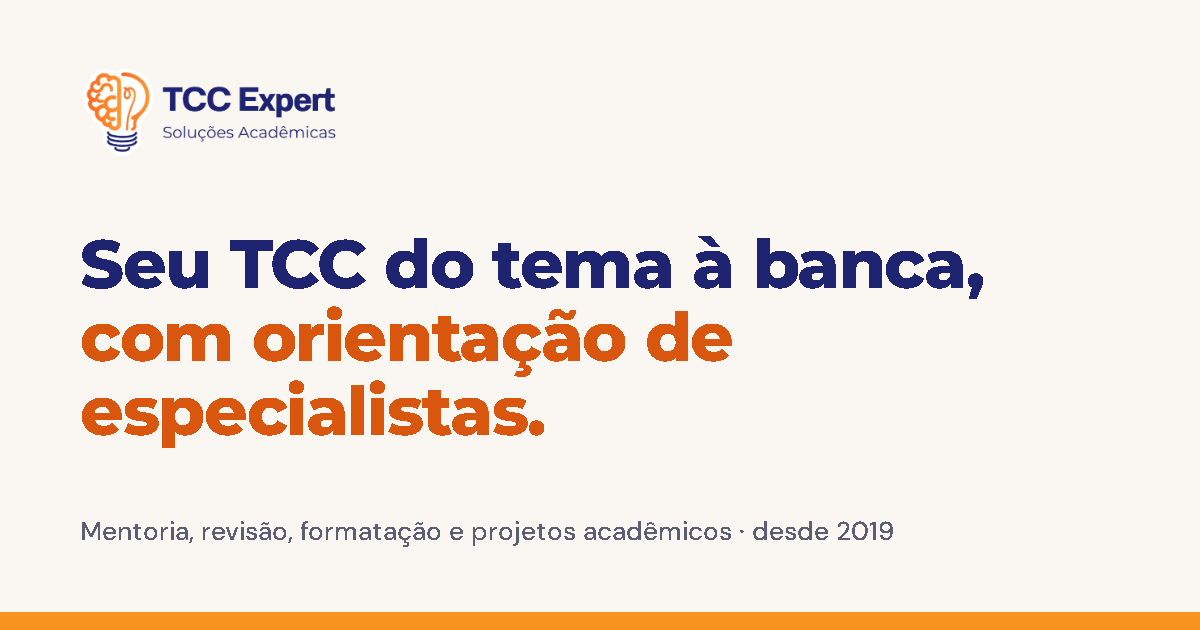
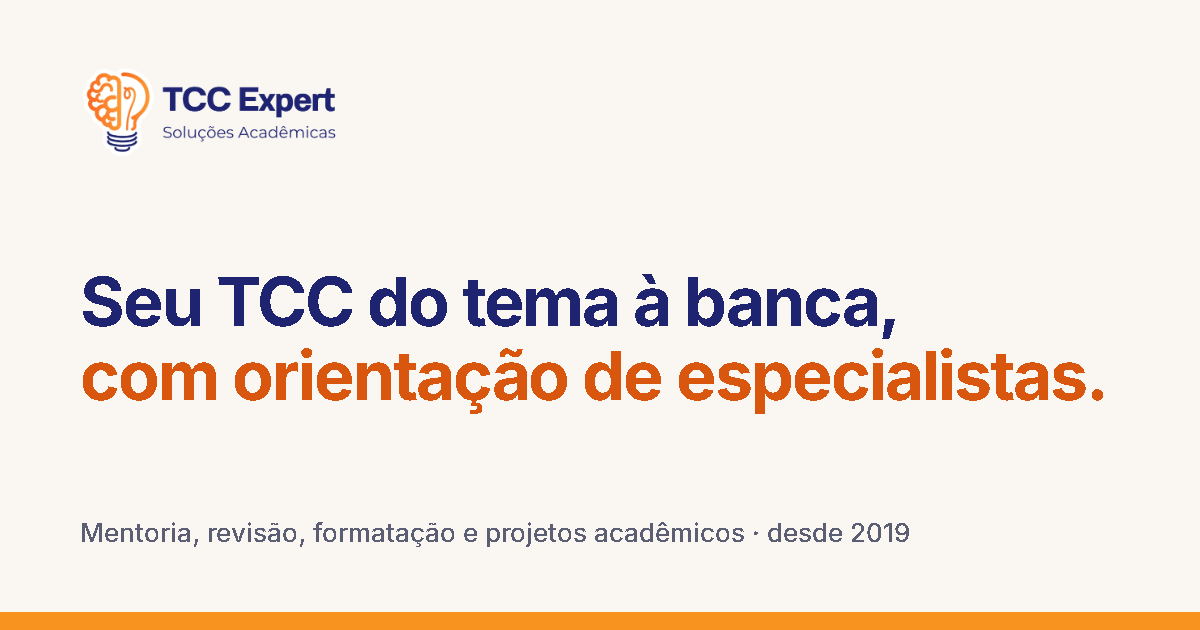
Tipografia mais sóbria: Inter em títulos e texto, cantos mais discretos

Changed region(s): [[0.0617, 0.3619, 0.925, 0.7238], [0.0617, 0.8143, 0.7708, 0.8746]]

diff --git a/src/app/servicos/page.tsx b/src/app/servicos/page.tsx
@@ -33,7 +33,7 @@ export default function ServicesPage() {
           <div className="mt-6 grid gap-6 lg:grid-cols-12 lg:items-end">
             <div className="lg:col-span-7">
               <p className="kicker">Nossos serviços</p>
-              <h1 id="servicos-page-title" className="mt-4 text-display font-extrabold">
+              <h1 id="servicos-page-title" className="mt-4 text-display font-bold">
                 Orientação para cada etapa do seu <span className="text-orange-deep">trabalho acadêmico</span>
               </h1>
             </div>
@@ -54,7 +54,7 @@ export default function ServicesPage() {
               const image = serviceImages[s.icon];
               return (
                 <li key={s.id} id={s.id} data-reveal style={{ ["--reveal-i" as string]: i % 2 }} className="scroll-mt-28">
-                  <article className="group flex h-full flex-col overflow-hidden rounded-3xl bg-white shadow-[0_1px_0_rgba(18,21,66,0.05)] transition-all duration-300 hover:-translate-y-2 hover:shadow-[0_30px_60px_-34px_rgba(18,21,66,0.5)]">
+                  <article className="group flex h-full flex-col overflow-hidden rounded-2xl bg-white shadow-[0_1px_0_rgba(18,21,66,0.05)] transition-all duration-300 hover:-translate-y-2 hover:shadow-[0_30px_60px_-34px_rgba(18,21,66,0.5)]">
                     <div className="relative overflow-hidden">
                       <Image
                         src={image.src}
@@ -63,7 +63,7 @@ export default function ServicesPage() {
                         sizes="(min-width: 768px) 45vw, 100vw"
                         className="aspect-[16/9] w-full object-cover transition-transform duration-700 ease-out group-hover:scale-105"
                       />
-                      <span className="absolute top-4 left-4 inline-flex size-12 items-center justify-center rounded-2xl bg-orange text-brand-deep shadow-md transition-transform duration-300 group-hover:rotate-[-6deg]">
+                      <span className="absolute top-4 left-4 inline-flex size-12 items-center justify-center rounded-xl bg-orange text-brand-deep shadow-md transition-transform duration-300 group-hover:rotate-[-6deg]">
                         <ServiceIcon name={s.icon} className="size-6" />
                       </span>
                     </div>
@@ -81,7 +81,7 @@ export default function ServicesPage() {
                           </li>
                         ))}
                       </ul>
-                      <p className="mt-6 rounded-xl bg-cream px-4 py-3 text-[0.9375rem] text-muted">{s.forWho}</p>
+                      <p className="mt-6 rounded-lg bg-cream px-4 py-3 text-[0.9375rem] text-muted">{s.forWho}</p>
                       <div className="mt-auto pt-7">
                         <WhatsAppLink source="services_page" topic={s.topic} className="btn btn-wa w-full sm:w-auto">
                           <WhatsAppIcon />

diff --git a/src/components/sections/Feedbacks.tsx b/src/components/sections/Feedbacks.tsx
@@ -41,14 +41,14 @@ export function Feedbacks() {
         <ul className="mt-12 grid gap-5 md:grid-cols-3">
           {testimonials.map((t, i) => (
             <li key={t.author} data-reveal style={{ ["--reveal-i" as string]: i }}>
-              <figure className="group flex h-full flex-col rounded-3xl bg-white p-6 shadow-[0_1px_0_rgba(18,21,66,0.04)] transition-all duration-300 hover:-translate-y-1.5 hover:shadow-[0_24px_48px_-28px_rgba(18,21,66,0.45)] sm:p-7">
+              <figure className="group flex h-full flex-col rounded-2xl bg-white p-6 shadow-[0_1px_0_rgba(18,21,66,0.04)] transition-all duration-300 hover:-translate-y-1.5 hover:shadow-[0_24px_48px_-28px_rgba(18,21,66,0.45)] sm:p-7">
                 <Quote className="size-8 text-orange transition-transform duration-300 group-hover:scale-110" aria-hidden="true" />
                 <blockquote className="mt-4 flex-1 text-[1.0625rem] leading-relaxed text-ink">
                   <p>{t.quote}</p>
                 </blockquote>
                 <figcaption className="mt-6 flex items-end justify-between gap-4 border-t border-rule pt-5">
                   <span>
-                    <span className="block font-display font-bold text-brand">{t.author}</span>
+                    <span className="block font-display font-semibold text-brand">{t.author}</span>
                     <span className="block text-sm text-muted">{t.context ?? t.service}</span>
                   </span>
                   {t.image && (
@@ -73,7 +73,7 @@ export function Feedbacks() {
         ref={dialogRef}
         aria-label={current ? `Mensagem de ${current.author}` : "Mensagem"}
         onClick={(e) => e.target === e.currentTarget && dialogRef.current?.close()}
-        className="m-auto max-h-[92vh] w-[min(92vw,26rem)] overflow-visible rounded-3xl bg-transparent p-0 backdrop:bg-brand-deep/70 backdrop:backdrop-blur-sm open:animate-pop-in"
+        className="m-auto max-h-[92vh] w-[min(92vw,26rem)] overflow-visible rounded-2xl bg-transparent p-0 backdrop:bg-brand-deep/70 backdrop:backdrop-blur-sm open:animate-pop-in"
       >
         {currentPrint && (
           <div className="relative">
@@ -81,7 +81,7 @@ export function Feedbacks() {
               src={currentPrint}
               alt={`Print da mensagem enviada por ${current?.author} pelo WhatsApp`}
               sizes="26rem"
-              className="max-h-[88vh] w-full rounded-3xl object-contain"
+              className="max-h-[88vh] w-full rounded-2xl object-contain"
             />
             <button
               type="button"

diff --git a/src/components/sections/Originality.tsx b/src/components/sections/Originality.tsx
@@ -27,13 +27,13 @@ export function Originality() {
                   key={p.title}
                   data-reveal
                   style={{ ["--reveal-i" as string]: i }}
-                  className="row-hover group flex items-center gap-4 rounded-2xl p-3 pl-5 hover:bg-cream"
+                  className="row-hover group flex items-center gap-4 rounded-xl p-3 pl-5 hover:bg-cream"
                 >
-                  <span className="inline-flex size-11 flex-none items-center justify-center rounded-xl bg-brand-soft text-brand transition-colors duration-300 group-hover:bg-brand group-hover:text-white">
+                  <span className="inline-flex size-11 flex-none items-center justify-center rounded-lg bg-brand-soft text-brand transition-colors duration-300 group-hover:bg-brand group-hover:text-white">
                     <Icon className="size-5" aria-hidden="true" />
                   </span>
                   <span>
-                    <span className="block font-display font-bold text-brand">{p.title}</span>
+                    <span className="block font-display font-semibold text-brand">{p.title}</span>
                     <span className="block text-[0.9375rem] text-muted">{p.text}</span>
                   </span>
                 </li>
@@ -51,14 +51,14 @@ export function Originality() {
             src={photo}
             alt="Livros abertos com anotações feitas à mão"
             sizes="(min-width: 1024px) 45vw, 100vw"
-            className="aspect-[4/3] w-full rounded-3xl object-cover"
+            className="aspect-[4/3] w-full rounded-2xl object-cover"
           />
-          <div className="absolute -bottom-6 left-6 flex items-center gap-3 rounded-2xl bg-white p-4 pr-6 shadow-[0_20px_40px_-20px_rgba(18,21,66,0.4)]">
+          <div className="absolute -bottom-6 left-6 flex items-center gap-3 rounded-xl bg-white p-4 pr-6 shadow-[0_20px_40px_-20px_rgba(18,21,66,0.4)]">
             <span className="inline-flex size-11 items-center justify-center rounded-full bg-orange text-brand-deep">
               <BadgeCheck className="size-6" aria-hidden="true" />
             </span>
             <span className="leading-tight">
-              <span className="block font-display font-bold text-brand">Laudo de originalidade</span>
+              <span className="block font-display font-semibold text-brand">Laudo de originalidade</span>
               <span className="text-sm text-muted">incluso na entrega</span>
             </span>
           </div>

diff --git a/src/components/sections/Hero.tsx b/src/components/sections/Hero.tsx
@@ -12,7 +12,7 @@ export function Hero() {
       <div className="container-x grid items-center gap-12 pt-12 pb-16 sm:pt-16 lg:grid-cols-12 lg:gap-10 lg:pt-20 lg:pb-24">
         <div className="lg:col-span-7">
           <p className="kicker">{hero.eyebrow}</p>
-          <h1 id="hero-title" className="mt-5 text-display font-extrabold">
+          <h1 id="hero-title" className="mt-5 text-display font-bold">
             {hero.titleStart}{" "}
             <span className="text-orange-deep">
               {hero.titleHighlight}
@@ -45,8 +45,8 @@ export function Hero() {
 
         <div className="relative lg:col-span-5">
           {/* Moldura deslocada em laranja, referência à lâmpada da logo */}
-          <div aria-hidden="true" className="absolute -top-4 -right-4 hidden h-full w-full rounded-3xl border-2 border-orange sm:block" />
-          <div className="relative overflow-hidden rounded-3xl shadow-[0_30px_60px_-30px_rgba(18,21,66,0.45)]">
+          <div aria-hidden="true" className="absolute -top-4 -right-4 hidden h-full w-full rounded-2xl border-2 border-orange sm:block" />
+          <div className="relative overflow-hidden rounded-2xl shadow-[0_30px_60px_-30px_rgba(18,21,66,0.45)]">
             <Image
               src={heroImage}
               alt="Estudante revisando anotações ao lado do notebook"
@@ -56,11 +56,11 @@ export function Hero() {
             />
           </div>
 
-          <dl className="relative -mt-12 mx-2 grid grid-cols-3 gap-1 rounded-2xl bg-white px-2 py-4 shadow-[0_20px_40px_-20px_rgba(18,21,66,0.35)] sm:mx-8 sm:p-5 lg:absolute lg:-bottom-8 lg:-left-10 lg:mx-0 lg:mt-0 lg:w-[110%] lg:max-w-md">
+          <dl className="relative -mt-12 mx-2 grid grid-cols-3 gap-1 rounded-xl bg-white px-2 py-4 shadow-[0_20px_40px_-20px_rgba(18,21,66,0.35)] sm:mx-8 sm:p-5 lg:absolute lg:-bottom-8 lg:-left-10 lg:mx-0 lg:mt-0 lg:w-[110%] lg:max-w-md">
             {stats.map((s) => (
               <div key={s.label} className="min-w-0 text-center">
                 <dt className="sr-only">{s.label}</dt>
-                <dd className="font-display text-xl font-extrabold whitespace-nowrap text-brand sm:text-[1.75rem]">{s.value}</dd>
+                <dd className="font-display text-xl font-semibold whitespace-nowrap text-brand sm:text-[1.75rem]">{s.value}</dd>
                 <dd aria-hidden="true" className="mt-1 text-xs leading-snug text-muted sm:text-[0.8125rem]">
                   {s.label}
                 </dd>

diff --git a/src/components/sections/ServicesTabs.tsx b/src/components/sections/ServicesTabs.tsx
@@ -21,7 +21,7 @@ export function ServicesTabs() {
   const panel = (s: typeof active, inline: boolean) => {
     const image = serviceImages[s.icon];
     return (
-      <div key={`${s.id}-${inline}`} className="animate-panel-in overflow-hidden rounded-3xl bg-white shadow-[0_24px_48px_-28px_rgba(18,21,66,0.4)]">
+      <div key={`${s.id}-${inline}`} className="animate-panel-in overflow-hidden rounded-2xl bg-white shadow-[0_24px_48px_-28px_rgba(18,21,66,0.4)]">
         <div className="relative overflow-hidden">
           <Image src={image.src} alt={image.alt} sizes="(min-width: 1024px) 45vw, 100vw" className="aspect-[16/8] w-full object-cover" />
         </div>
@@ -61,21 +61,21 @@ export function ServicesTabs() {
                 aria-controls={`servico-${s.id}`}
                 data-active={isActive}
                 onClick={() => setActiveId(s.id)}
-                className={`row-hover group flex w-full items-center gap-4 rounded-2xl border p-4 pl-5 text-left transition-all sm:p-5 sm:pl-6 ${
+                className={`row-hover group flex w-full items-center gap-4 rounded-xl border p-4 pl-5 text-left transition-all sm:p-5 sm:pl-6 ${
                   isActive
                     ? "border-transparent bg-white shadow-[0_18px_36px_-24px_rgba(18,21,66,0.45)]"
                     : "border-rule bg-transparent hover:border-transparent hover:bg-white"
                 }`}
               >
                 <span
-                  className={`inline-flex size-11 flex-none items-center justify-center rounded-xl transition-all duration-300 ${
+                  className={`inline-flex size-11 flex-none items-center justify-center rounded-lg transition-all duration-300 ${
                     isActive ? "bg-orange text-brand-deep" : "bg-orange-soft text-orange-text group-hover:scale-105"
                   }`}
                 >
                   <ServiceIcon name={s.icon} />
                 </span>
                 <span className="min-w-0 flex-1">
-                  <span className="block font-display text-[1.0625rem] font-bold text-brand">{s.name}</span>
+                  <span className="block font-display text-[1.0625rem] font-semibold text-brand">{s.name}</span>
                   <span className="mt-0.5 block text-[0.9375rem] leading-snug text-muted">{s.short}</span>
                 </span>
                 <ChevronRight

diff --git a/src/components/sections/Audience.tsx b/src/components/sections/Audience.tsx
@@ -15,10 +15,10 @@ export function Audience() {
             src={photo}
             alt="Estudante trabalhando no notebook em uma mesa de estudos"
             sizes="(min-width: 1024px) 38vw, 100vw"
-            className="aspect-[4/5] w-full rounded-3xl object-cover sm:aspect-[16/10] lg:aspect-[4/5]"
+            className="aspect-[4/5] w-full rounded-2xl object-cover sm:aspect-[16/10] lg:aspect-[4/5]"
           />
-          <p className="absolute right-4 bottom-4 left-4 rounded-2xl bg-white/95 p-4 text-[0.9375rem] leading-snug text-ink shadow-lg sm:right-auto sm:max-w-xs">
-            <span className="font-display font-bold text-brand">Atendimento 100% online.</span> Converse com a equipe
+          <p className="absolute right-4 bottom-4 left-4 rounded-xl bg-white/95 p-4 text-[0.9375rem] leading-snug text-ink shadow-lg sm:right-auto sm:max-w-xs">
+            <span className="font-display font-semibold text-brand">Atendimento 100% online.</span> Converse com a equipe
             de onde estiver.
           </p>
         </div>
@@ -34,9 +34,9 @@ export function Audience() {
                 key={item.title}
                 data-reveal
                 style={{ ["--reveal-i" as string]: i }}
-                className="row-hover group rounded-2xl border border-rule bg-cream p-5 hover:-translate-y-1 hover:border-transparent hover:bg-white hover:shadow-[0_18px_36px_-22px_rgba(18,21,66,0.4)]"
+                className="row-hover group rounded-xl border border-rule bg-cream p-5 hover:-translate-y-1 hover:border-transparent hover:bg-white hover:shadow-[0_18px_36px_-22px_rgba(18,21,66,0.4)]"
               >
-                <span className="inline-flex size-11 items-center justify-center rounded-xl bg-orange-soft text-orange-text transition-all duration-300 group-hover:rotate-[-6deg] group-hover:bg-orange group-hover:text-brand-deep">
+                <span className="inline-flex size-11 items-center justify-center rounded-lg bg-orange-soft text-orange-text transition-all duration-300 group-hover:rotate-[-6deg] group-hover:bg-orange group-hover:text-brand-deep">
                   <AudienceIcon name={item.icon} />
                 </span>
                 <h3 className="mt-4 text-h3">{item.title}</h3>

diff --git a/src/components/sections/Process.tsx b/src/components/sections/Process.tsx
@@ -17,9 +17,9 @@ export function Process() {
               key={step.title}
               data-reveal
               style={{ ["--reveal-i" as string]: i }}
-              className="group relative flex gap-4 rounded-2xl border border-white/10 bg-white/[0.03] p-5 transition-all duration-300 hover:-translate-y-1.5 hover:border-orange/50 hover:bg-white/[0.07] active:scale-[0.98] lg:flex-col lg:p-6"
+              className="group relative flex gap-4 rounded-xl border border-white/10 bg-white/[0.03] p-5 transition-all duration-300 hover:-translate-y-1.5 hover:border-orange/50 hover:bg-white/[0.07] active:scale-[0.98] lg:flex-col lg:p-6"
             >
-              <span className="relative inline-flex size-12 flex-none items-center justify-center rounded-full border-2 border-orange font-display text-lg font-extrabold text-orange transition-colors duration-300 group-hover:bg-orange group-hover:text-brand-deep">
+              <span className="relative inline-flex size-12 flex-none items-center justify-center rounded-full border-2 border-orange font-display text-lg font-semibold text-orange transition-colors duration-300 group-hover:bg-orange group-hover:text-brand-deep">
                 {i + 1}
               </span>
               <div>
@@ -30,8 +30,8 @@ export function Process() {
           ))}
         </ol>
 
-        <div data-reveal className="mt-12 flex flex-col gap-5 rounded-2xl bg-white/[0.06] p-6 sm:flex-row sm:items-center sm:justify-between sm:p-8">
-          <p className="font-display text-xl font-bold text-white">{process.closing}</p>
+        <div data-reveal className="mt-12 flex flex-col gap-5 rounded-xl bg-white/[0.06] p-6 sm:flex-row sm:items-center sm:justify-between sm:p-8">
+          <p className="font-display text-xl font-semibold text-white">{process.closing}</p>
           <WhatsAppLink source="process" className="btn btn-wa self-start sm:self-auto">
             <WhatsAppIcon />
             Conversar com especialista

diff --git a/src/components/sections/About.tsx b/src/components/sections/About.tsx
@@ -13,11 +13,11 @@ export function About() {
             src={photo}
             alt="Biblioteca com estantes de livros do chão ao teto"
             sizes="(min-width: 1024px) 45vw, 100vw"
-            className="aspect-[4/3] w-full rounded-3xl object-cover"
+            className="aspect-[4/3] w-full rounded-2xl object-cover"
           />
-          <div className="absolute -top-5 right-3 rounded-2xl bg-orange px-5 py-4 text-brand-deep shadow-lg sm:-right-5">
+          <div className="absolute -top-5 right-3 rounded-xl bg-orange px-5 py-4 text-brand-deep shadow-lg sm:-right-5">
             <span className="block text-xs font-semibold tracking-[0.12em] uppercase">Desde</span>
-            <span className="block font-display text-3xl leading-none font-extrabold">{siteConfig.trust.foundedYear}</span>
+            <span className="block font-display text-3xl leading-none font-semibold">{siteConfig.trust.foundedYear}</span>
           </div>
         </div>
 
@@ -34,10 +34,10 @@ export function About() {
             {stats.map((s) => (
               <div
                 key={s.label}
-                className="min-w-0 rounded-2xl bg-white px-2 py-4 text-center transition-transform duration-300 hover:-translate-y-1 sm:p-4"
+                className="min-w-0 rounded-xl bg-white px-2 py-4 text-center transition-transform duration-300 hover:-translate-y-1 sm:p-4"
               >
                 <dt className="sr-only">{s.label}</dt>
-                <dd className="font-display text-xl font-extrabold whitespace-nowrap text-orange-deep sm:text-3xl">{s.value}</dd>
+                <dd className="font-display text-xl font-bold whitespace-nowrap text-orange-deep sm:text-3xl">{s.value}</dd>
                 <dd aria-hidden="true" className="mt-1 text-xs text-muted sm:text-sm">
                   {s.label}
                 </dd>

diff --git a/src/app/globals.css b/src/app/globals.css
@@ -22,15 +22,18 @@
   --color-wa: #25d366; /* verde do WhatsApp */
   --color-wa-ink: #06301a; /* texto sobre o verde (contraste AA) */
 
-  --font-display: var(--font-montserrat), ui-sans-serif, system-ui, sans-serif;
-  --font-sans: var(--font-dm-sans), ui-sans-serif, system-ui, sans-serif;
+  --font-display: var(--font-inter), ui-sans-serif, system-ui, sans-serif;
+  --font-sans: var(--font-inter), ui-sans-serif, system-ui, sans-serif;
 
   --text-display: clamp(2.25rem, 1.45rem + 3.6vw, 4.25rem);
   --text-display--line-height: 1.06;
+  --text-display--letter-spacing: -0.03em;
   --text-h2: clamp(1.875rem, 1.4rem + 2vw, 3rem);
-  --text-h2--line-height: 1.12;
+  --text-h2--line-height: 1.14;
+  --text-h2--letter-spacing: -0.025em;
   --text-h3: clamp(1.15rem, 1.05rem + 0.4vw, 1.375rem);
-  --text-h3--line-height: 1.3;
+  --text-h3--line-height: 1.32;
+  --text-h3--letter-spacing: -0.012em;
   --text-lead: clamp(1.0625rem, 1rem + 0.3vw, 1.2rem);
   --text-lead--line-height: 1.6;
 
@@ -75,7 +78,7 @@
     color: var(--color-ink);
     font-family: var(--font-sans);
     font-size: 1.0625rem;
-    line-height: 1.65;
+    line-height: 1.7;
     -webkit-font-smoothing: antialiased;
   }
   h1,
@@ -84,8 +87,8 @@
   h4 {
     font-family: var(--font-display);
     color: var(--color-brand);
-    font-weight: 700;
-    letter-spacing: -0.02em;
+    font-weight: 600;
+    letter-spacing: -0.015em;
     text-wrap: balance;
   }
   p {
@@ -134,7 +137,7 @@
     font-weight: 600;
     font-size: 1rem;
     line-height: 1.2;
-    border-radius: 0.625rem;
+    border-radius: 0.5rem;
     transition:
       transform 0.2s var(--ease-out-soft),
       box-shadow 0.2s var(--ease-out-soft),

diff --git a/src/components/sections/Commitment.tsx b/src/components/sections/Commitment.tsx
@@ -6,9 +6,9 @@ export function Commitment() {
   return (
     <section id="compromisso" aria-labelledby="compromisso-title" className="bg-white py-section">
       <div className="container-x">
-        <div className="grid gap-10 rounded-[2rem] bg-brand-soft p-6 sm:p-10 lg:grid-cols-12 lg:gap-12 lg:p-14">
+        <div className="grid gap-10 rounded-3xl bg-brand-soft p-6 sm:p-10 lg:grid-cols-12 lg:gap-12 lg:p-14">
           <div className="lg:col-span-5">
-            <span className="inline-flex size-14 items-center justify-center rounded-2xl bg-brand text-white">
+            <span className="inline-flex size-14 items-center justify-center rounded-xl bg-brand text-white">
               <ShieldCheck className="size-7" aria-hidden="true" />
             </span>
             <SectionHeading kicker={commitment.kicker} id="compromisso-title" className="mt-6">
@@ -24,7 +24,7 @@ export function Commitment() {
                 key={c}
                 data-reveal
                 style={{ ["--reveal-i" as string]: i }}
-                className="row-hover flex items-start gap-3 rounded-2xl bg-white p-4 pl-5 text-ink hover:shadow-[0_14px_28px_-20px_rgba(18,21,66,0.45)]"
+                className="row-hover flex items-start gap-3 rounded-xl bg-white p-4 pl-5 text-ink hover:shadow-[0_14px_28px_-20px_rgba(18,21,66,0.45)]"
               >
                 <CircleCheck className="mt-0.5 size-5 flex-none text-orange-text" aria-hidden="true" />
                 {c}

diff --git a/src/app/layout.tsx b/src/app/layout.tsx
@@ -1,5 +1,5 @@
 import type { Metadata, Viewport } from "next";
-import { DM_Sans, Montserrat } from "next/font/google";
+import { Inter } from "next/font/google";
 import { siteConfig } from "@/config/site";
 import { Header } from "@/components/layout/Header";
 import { Footer } from "@/components/layout/Footer";
@@ -9,18 +9,12 @@ import { RevealObserver } from "@/components/layout/RevealObserver";
 import { Analytics } from "@/components/layout/Analytics";
 import "./globals.css";
 
+// Inter em títulos e texto: uma única família sóbria, de leitura profissional.
 // Só os pesos realmente usados, para carregar o mínimo de arquivos.
-const montserrat = Montserrat({
+const inter = Inter({
   subsets: ["latin"],
-  weight: ["700", "800"],
-  variable: "--font-montserrat",
-  display: "swap",
-});
-
-const dmSans = DM_Sans({
-  subsets: ["latin"],
-  weight: ["400", "500", "600"],
-  variable: "--font-dm-sans",
+  weight: ["400", "500", "600", "700"],
+  variable: "--font-inter",
   display: "swap",
 });
 
@@ -77,7 +71,7 @@ export default function RootLayout({
   return (
     <html
       lang="pt-BR"
-      className={`${montserrat.variable} ${dmSans.variable}`}
+      className={`${inter.variable}`}
       suppressHydrationWarning
     >
       <head>

diff --git a/src/components/sections/Faq.tsx b/src/components/sections/Faq.tsx
@@ -28,9 +28,9 @@ export function Faq() {
               key={item.q}
               data-reveal
               style={{ ["--reveal-i" as string]: Math.min(i, 4) }}
-              className="faq-item group rounded-2xl bg-white transition-shadow duration-300 open:shadow-[0_18px_36px_-26px_rgba(18,21,66,0.5)] hover:shadow-[0_12px_28px_-24px_rgba(18,21,66,0.5)]"
+              className="faq-item group rounded-xl bg-white transition-shadow duration-300 open:shadow-[0_18px_36px_-26px_rgba(18,21,66,0.5)] hover:shadow-[0_12px_28px_-24px_rgba(18,21,66,0.5)]"
             >
-              <summary className="flex min-h-16 items-center justify-between gap-6 rounded-2xl px-5 py-4 font-display text-[1.0625rem] font-bold text-brand transition-colors active:bg-cream sm:px-6">
+              <summary className="flex min-h-16 items-center justify-between gap-6 rounded-xl px-5 py-4 font-display text-[1.0625rem] font-semibold text-brand transition-colors active:bg-cream sm:px-6">
                 <span>{item.q}</span>
                 <span className="faq-icon inline-flex size-9 flex-none items-center justify-center rounded-full bg-cream text-brand">
                   <Plus className="size-5" aria-hidden="true" />
